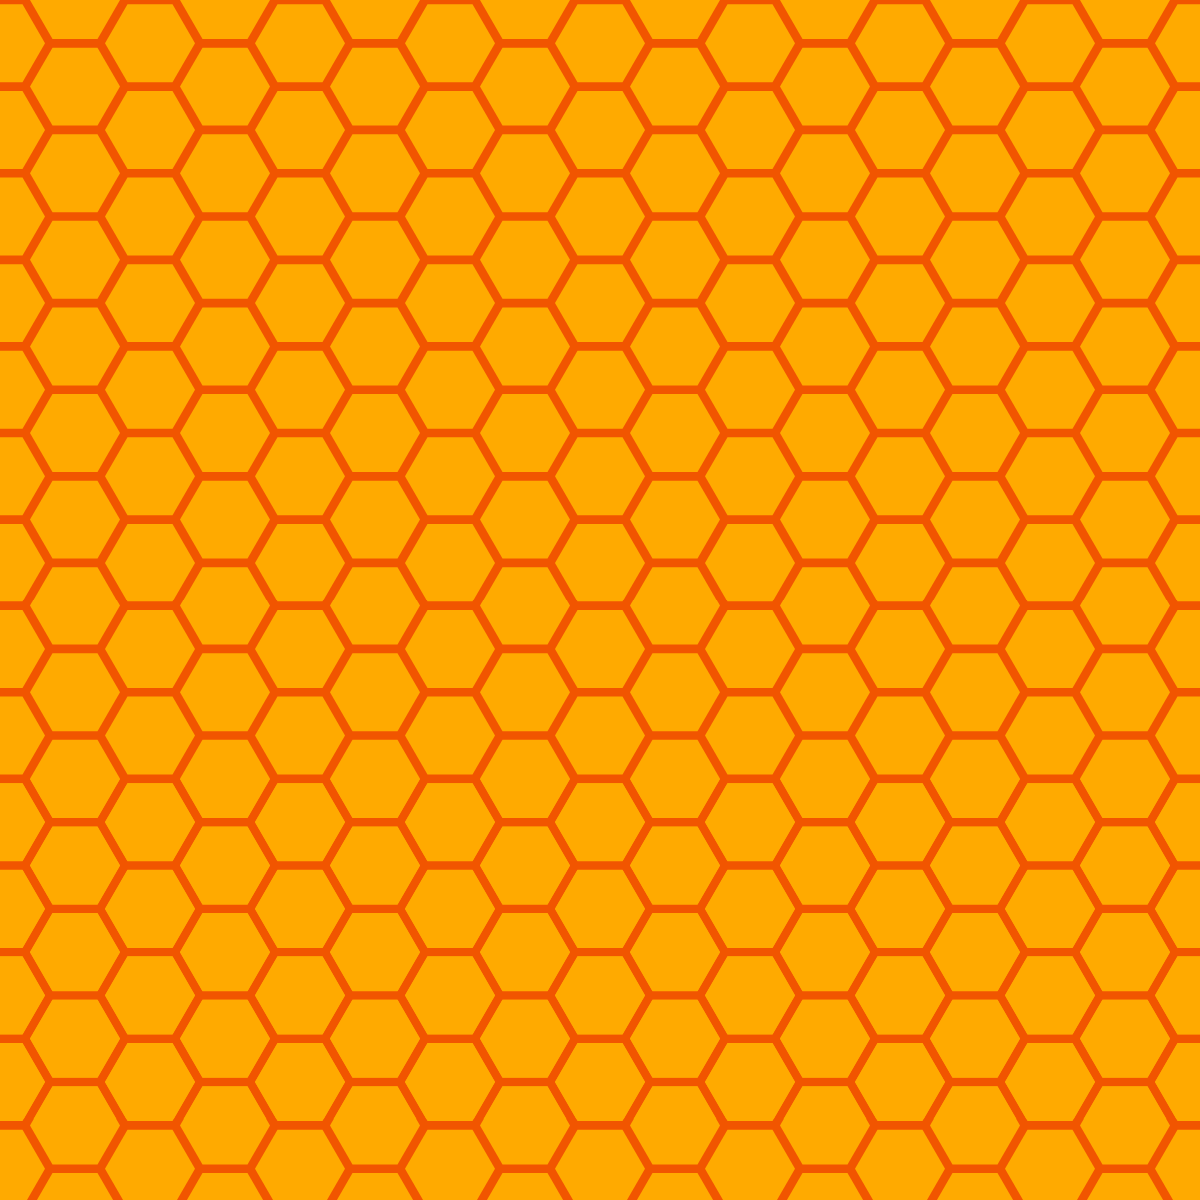
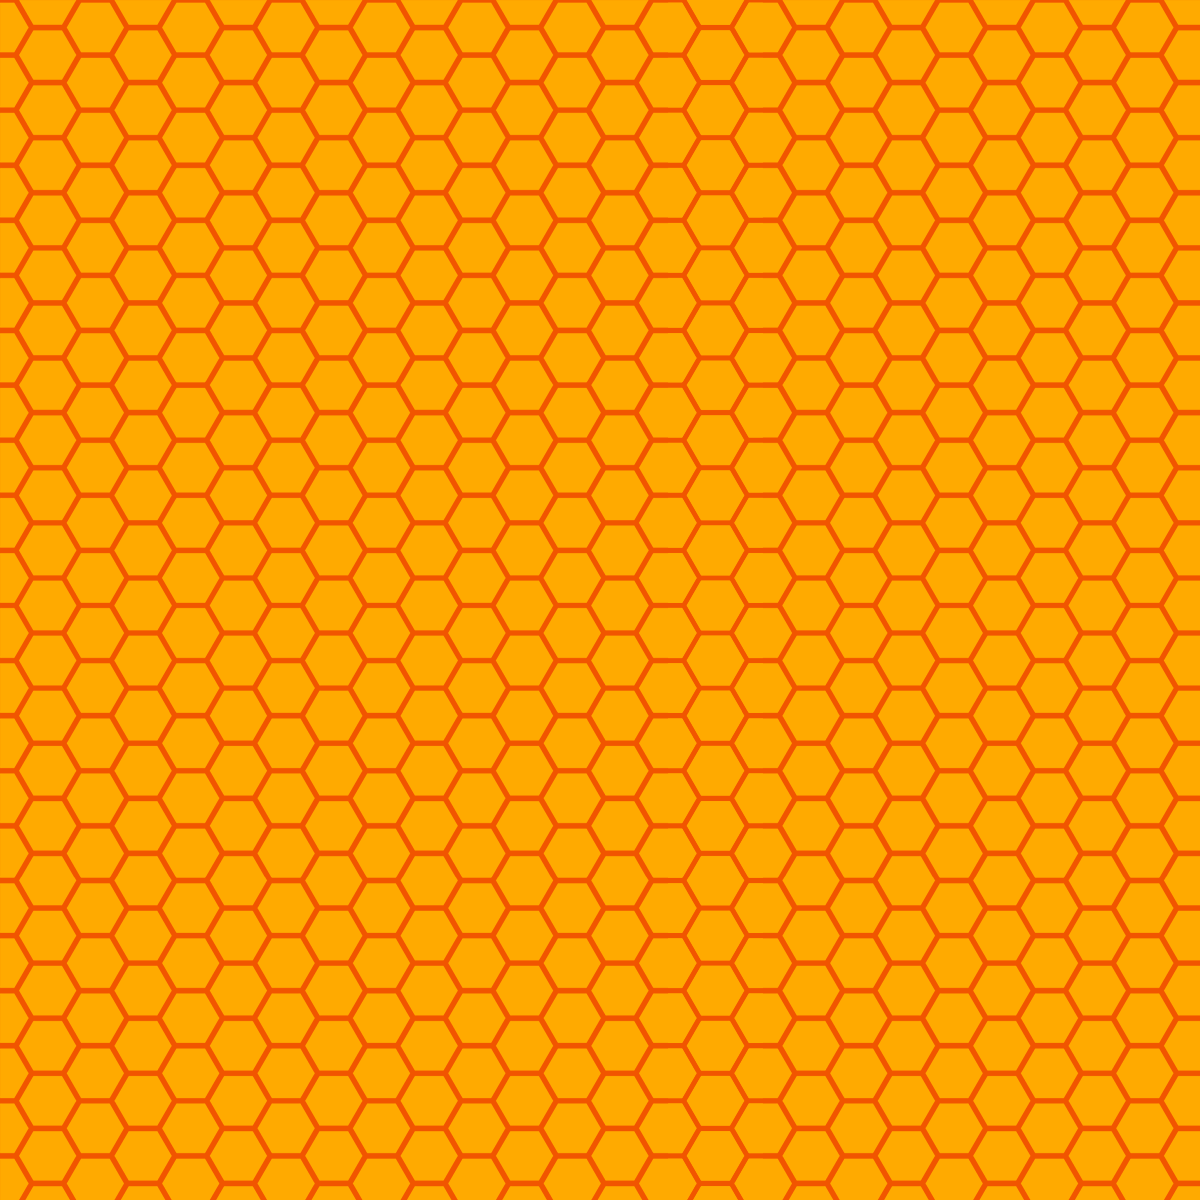
Changement image + commentaires

diff --git a/main.cc b/main.cc
@@ -10,20 +10,22 @@ int main()
     Abeille joueur;
 
     // Création de la fenêtre
-    sf::RenderWindow window(sf::VideoMode(800, 600, 28), "ZomBee");
-    window.setFramerateLimit(30);
+    sf::RenderWindow window(sf::VideoMode(400, 800), "ZomBee"); // Création d'une fenêtre 800x600 , nom = ZomBee      
+    window.setFramerateLimit(30);                               // FPS = 30
 
-	sf::Texture image_texture;
-	image_texture.loadFromFile("1beille.png");
-	sf::Sprite abeille(image_texture);
-	abeille.setTextureRect(sf::IntRect(0, 0, 50, 50));
+    // Affichage de l'abeille
+	sf::Texture image_texture;                                  // Création d'une texture
+	image_texture.loadFromFile("1beille.png");                  // Chargement de la texture à partir d'un fichier
+	sf::Sprite abeille(image_texture);                          // Création d'une forme et application de la texture
+	abeille.setTextureRect(sf::IntRect(0, 0, 50, 50));          // Découpage d'une partie spécifique de la texture (premier photogramme)
 
 
 
-	sf::Texture background_texture;
-	background_texture.loadFromFile("background.png");
-	sf::Sprite background(background_texture);
-	background.setScale(0.7, 0.7);
+	sf::Texture background_texture;                             // Création d'une texture
+	background_texture.loadFromFile("background.png");          // Chargement de la texture à partir d'un fichier
+	sf::Sprite background(background_texture);                  // Création d'une forme et application de la texture
+	//background.setScale(0.7, 0.7);                              // Changement de la taille 
+
 
     while (window.isOpen())
     {
@@ -47,7 +49,7 @@ int main()
         	animation = 0;
         }
 
-        //window.clear(sf::Color(255, 255, 255, 255));
+        window.clear(sf::Color(255, 255, 255, 255));
         abeille.setPosition(joueur.get_x(), joueur.get_y());
         window.draw(background);
         window.draw(abeille);
